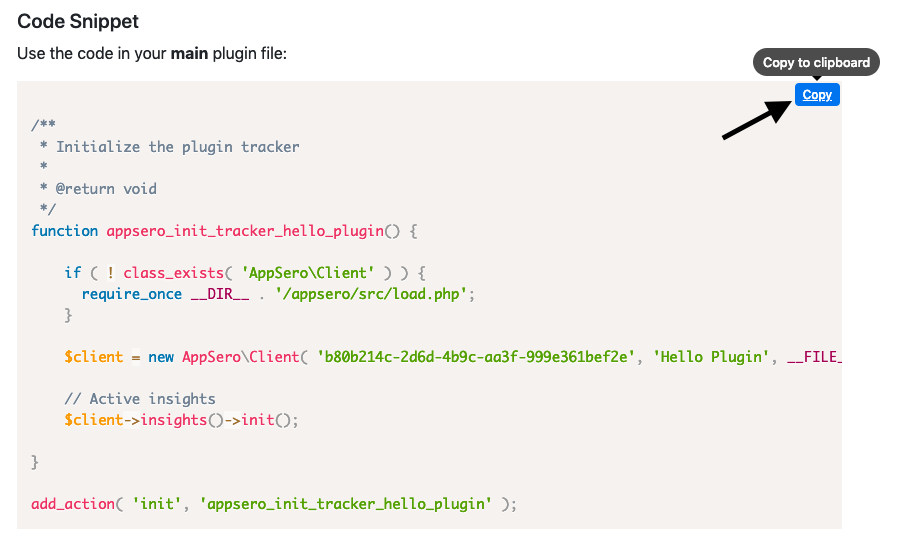
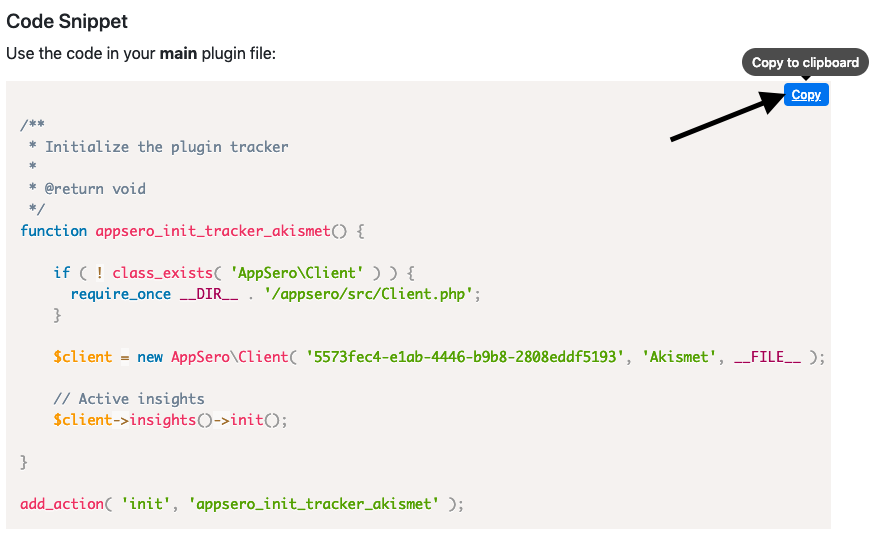
Updated docs and images

diff --git a/docs/user-guide/appsero-helper.md b/docs/user-guide/appsero-helper.md
@@ -1,22 +1,22 @@
 # Appsero Helper
 
-Appsero Helper provides a connection between AppSero and WordPress store.
+Appsero Helper provide connection between AppSero and WordPress store.
 
 ## Installation
-Go to your store WordPress site and install <code>AppSero Helper</code> plugin. To install `appsero-helper` upload the `appsero-helper` plugin to your `/wp-content/plugins/` directory. Or go to the plugin page and search `AppSero Helper` and install and activate the plugin. When installation will be completed it will ask for a `API Key` to connect with AppSero.
+Go to your store WordPress site and install <code>AppSero Helper</code> plugin. To install `appsero-helper` upload the `appsero-helper` plugin to your `/wp-content/plugins/` directory. Or go to plugin page and search `AppSero Helper` and install and activate the plugin. When installation will be completed it will ask for a `API Key` to connect with AppSero.
  
  ![Activate AppSero Helper](../images/api-key/activate-wordpress.png)
  
  Copy `API Key` from AppSero. If don't have any `API Key` then [Create New API Key](appsero-helper.html#creating-api-key). Copy the Key and paste it to API Key input box then click on `Connect` button.
  
  ::: tip
- After completing installation if it doesn't redirect to `AppSero Helper` page then go to `Settings > Appsero Helper`. And connect the Helper.
+ After completing installation if it don't redirect to `AppSero Helper` page then go to `Settings > Appsero Helper`. And connect the Helper.
  :::
  
  
  ## Creating API Key
  
- To create <code>API Key</code> go to the API Key page under right top navigation menu.
+ To create <code>API Key</code> go to API Key page under right top navigation menu.
  
  ![API Key](../images/api-key/1.png)
  
@@ -24,4 +24,4 @@ Go to your store WordPress site and install <code>AppSero Helper</code> plugin. 
  
  ![Create API Key](../images/api-key/2.png)
  
- > API Key has been created. Use this API Key to connect your WordPress Site by AppSero Helper Plugin.
+ > API Key has been created. Use this API Key to connect your WordPress Site by AppSero Helper Plugin

diff --git a/docs/developer-guide/your-store-project.md b/docs/developer-guide/your-store-project.md
@@ -1,4 +1,4 @@
-# Add Plugin/Theme Stored in WordPress.org
+# Add Plugin/Theme Stored in Your Store
 
 - **Follow the following steps if the Plugin/Theme hosted on Your Site**
     - [Add Plugin/Theme](#add-plugin-theme)
@@ -9,7 +9,6 @@
 If you would like to add Appseo analytics to your Plugin then [Add a plugin](#add-a-plugin). For theme [Add a theme](#add-a-theme)
 
 ### Add a Plugin
-
 To add new plugin go to `Plugins` menu then click on `Add Plugin` button. Fill up the form with the following information:
 
 #### Available Fields
@@ -177,7 +176,7 @@ git clone https://github.com/AppSero/client.git appsero
 Now include the dependencies in your plugin/theme.
 
 ```php
-require __DIR__ . '/appsero/src/load.php';
+require __DIR__ . '/appsero/src/Client.php';
 ```
 
 ### Enable Insights, Updater, Licensing

diff --git a/docs/developer-guide/appsero-client.md b/docs/developer-guide/appsero-client.md
@@ -34,7 +34,7 @@ git clone https://github.com/AppSero/client.git appsero
 Now include the dependencies in your plugin/theme.
 
 ```php
-require __DIR__ . '/appsero/src/load.php';
+require __DIR__ . '/appsero/src/Client.php';
 ```
 
 ## Insights
@@ -66,7 +66,7 @@ You can obtain the **hash** for your plugin for the [AppSero Dashboard](https://
 function appsero_init_tracker_appsero_test() {
 
     if ( ! class_exists( 'AppSero\Client' ) ) {
-      require_once __DIR__ . '/appsero/src/load.php';
+      require_once __DIR__ . '/appsero/src/Client.php';
     }
 
     $client = new AppSero\Client( 'a4a8da5b-b419-4656-98e9-4a42e9044891', 'Akismet', __FILE__ );

diff --git a/docs/developer-guide/envato-project.md b/docs/developer-guide/envato-project.md
@@ -169,7 +169,7 @@ git clone https://github.com/AppSero/client.git appsero
 Now include the dependencies in your plugin/theme.
 
 ```php
-require __DIR__ . '/appsero/src/load.php';
+require __DIR__ . '/appsero/src/Client.php';
 ```
 
 ### Enable Insights 

diff --git a/docs/developer-guide/wporg-project.md b/docs/developer-guide/wporg-project.md
@@ -164,7 +164,7 @@ git clone https://github.com/AppSero/client.git appsero
 Now include the dependencies in your plugin/theme.
 
 ```php
-require __DIR__ . '/appsero/src/load.php';
+require __DIR__ . '/appsero/src/Client.php';
 ```
 
 ### Enable Insights 
